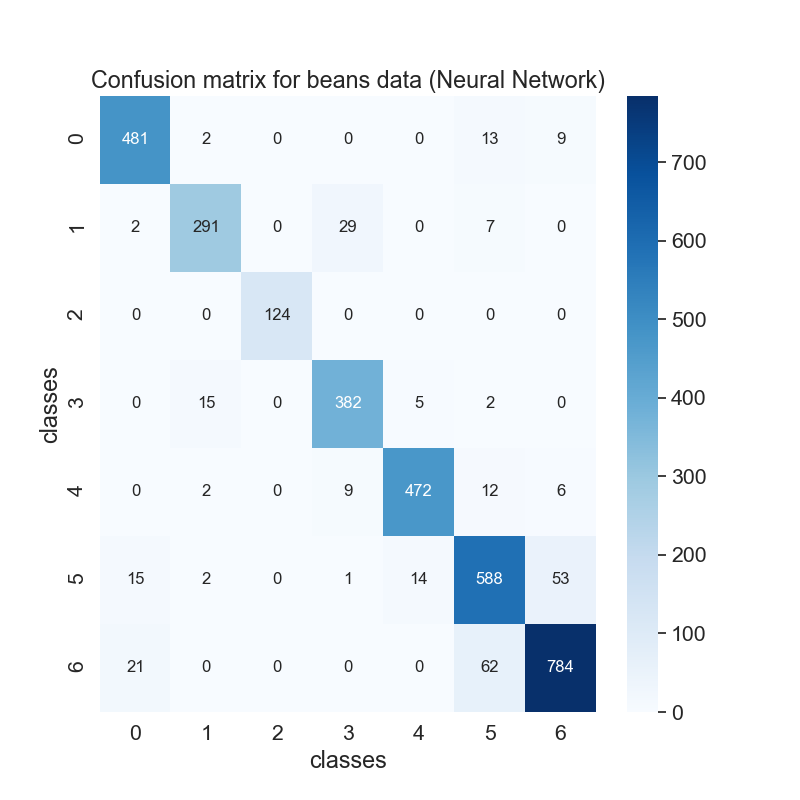
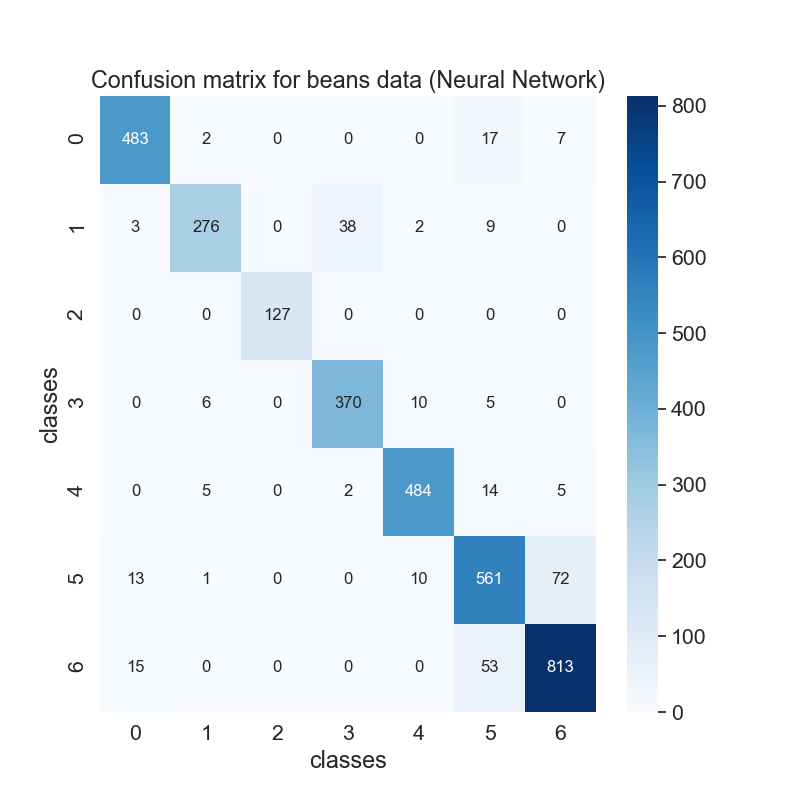
rerun some tests

diff --git a/project3/code/test_project_3.py b/project3/code/test_project_3.py
@@ -50,7 +50,7 @@ an accuracy score (of both training and test data). We have also provided the
 opportunity to look at the accuracy score over the training time (iterations of the
 SGD-algorithm)
 """
-test1 = True
+test1 = False
 if test1:
     print('>> RUNNING TEST 1:')
     # Loading the training and testing dataset
@@ -61,12 +61,12 @@ if test1:
     y_train = to_categorical(y_train, num_classes=7)
     y_test = to_categorical(y_test, num_classes=7)
 
-    n_epochs = 80
+    n_epochs = 30
     batch_size = 100
     lmbda = 1e-4
-    eta = 1e-3
+    eta = 1e-2
     gamma = 0.9
-    hidden_nodes = 6
+    hidden_nodes = 14
     hidden_layers = 4
     model = helper.create_NN(n_components, hidden_nodes, hidden_layers, 'categorical_crossentropy', 'relu', eta, lmbda, gamma)
 
@@ -201,7 +201,7 @@ if test3:
     eta = 1e-2
     lmbda = 1e-4
     act_func = 'relu'
-    hidden_nodes = 6
+    hidden_nodes = 14
     hidden_layers = 4
  
     batch_sizes = np.arange(100, 1100, 200)
@@ -287,7 +287,7 @@ if test4:
     gamma = 0.9
     batch_size = 100
     act_func = 'relu'
-    hidden_nodes = 6
+    hidden_nodes = 14
     hidden_layers = 4
 
     iter = 0
@@ -1160,7 +1160,7 @@ METHOD: Neural Network
 Optimizing the batch_sizes and the momentum parameter gamma by looking over a seaborn plot.
 Will be measured in r2-score for both training and test-data.
 """
-test22 = False
+test22 = True
 if test22:
     print('>> RUNNING TEST 22:')
     # Loading the training and testing dataset
@@ -1186,7 +1186,7 @@ if test22:
         for j, gamma in enumerate(gammas):
             # Creating a neural network model
             model = helper.create_NN(
-                n_components, hidden_nodes, hidden_layers, act_func, eta, lmbda, gamma)
+                n_components, hidden_nodes, hidden_layers, 'mse', act_func, eta, lmbda, gamma)
 
             epochs = batch_size
             # Train the model

diff --git a/project3/code/helper.py b/project3/code/helper.py
@@ -982,10 +982,10 @@ def create_NN(input_nodes, hidden_nodes, hidden_layers, loss, act_func, eta, lmb
     model = Sequential()
     for degree in range(hidden_layers):
         if degree == 0:
-            model.add(Dense(60, activation=act_func, kernel_regularizer=regularizers.l2(
+            model.add(Dense(hidden_nodes, activation=act_func, kernel_regularizer=regularizers.l2(
                 lmbda), input_dim=input_nodes))
         else:
-            model.add(Dense(60, activation=act_func,
+            model.add(Dense(hidden_nodes, activation=act_func,
                             kernel_regularizer=regularizers.l2(lmbda)))
     if loss == "mse":
         model.add(Dense(1))
